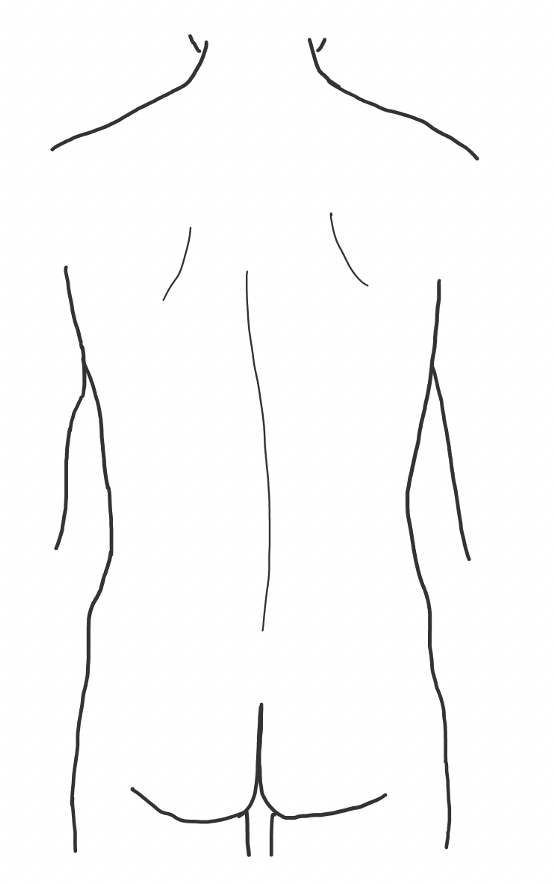
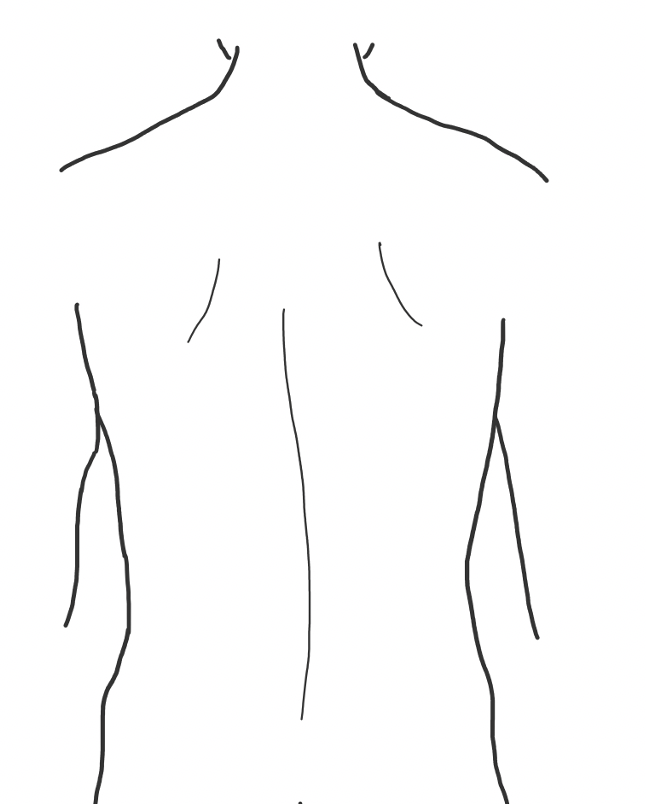
changed back in homunc

diff --git a/src/screens/BackHomuncScreen.js b/src/screens/BackHomuncScreen.js
@@ -30,7 +30,7 @@ const BackHomuncScreen = ({navigation}) => {
                     <Image style={styles.arm} source={require('../../assets/Back/LeftUA.png')} />
                 </TouchableOpacity>
                 <TouchableOpacity onPress={() => clickHandler("Torso")}>
-                    <Image style={styles.chest} source={require('../../assets/Back/BackTorso.png')} />
+                    <Image style={styles.chest} source={require('../../assets/Back/BackTorso2.png')} />
                 </TouchableOpacity>
                 <TouchableOpacity onPress={() => clickHandler("Right Upper Arm", "This is the area highlighted in blue")}>
                     <Image style={styles.arm} source={require('../../assets/Back/RightUA.png')} />
@@ -41,7 +41,7 @@ const BackHomuncScreen = ({navigation}) => {
                     <Image style={styles.lowerArm} source={require('../../assets/Back/LeftLA.png')} />
                 </TouchableOpacity>
                 <TouchableOpacity onPress={() => clickHandler("Torso")}>
-                    <Image style={styles.body} source={require('../../assets/Back/LowerTorso.png')} />
+                    <Image style={styles.body} source={require('../../assets/Back/LowerTorso2.png')} />
                 </TouchableOpacity>
                 <TouchableOpacity onPress={() => clickHandler("Right Lower Arm", "This is the area highlighted in blue")}>
                     <Image style={styles.lowerArm} source={require('../../assets/Back/RightLA.png')} />
@@ -113,7 +113,7 @@ const styles = StyleSheet.create({
     },
     body: {
         width: 103,
-        height: 48,
+        height: 49,
         resizeMode: 'contain',
     },
     hand: {
